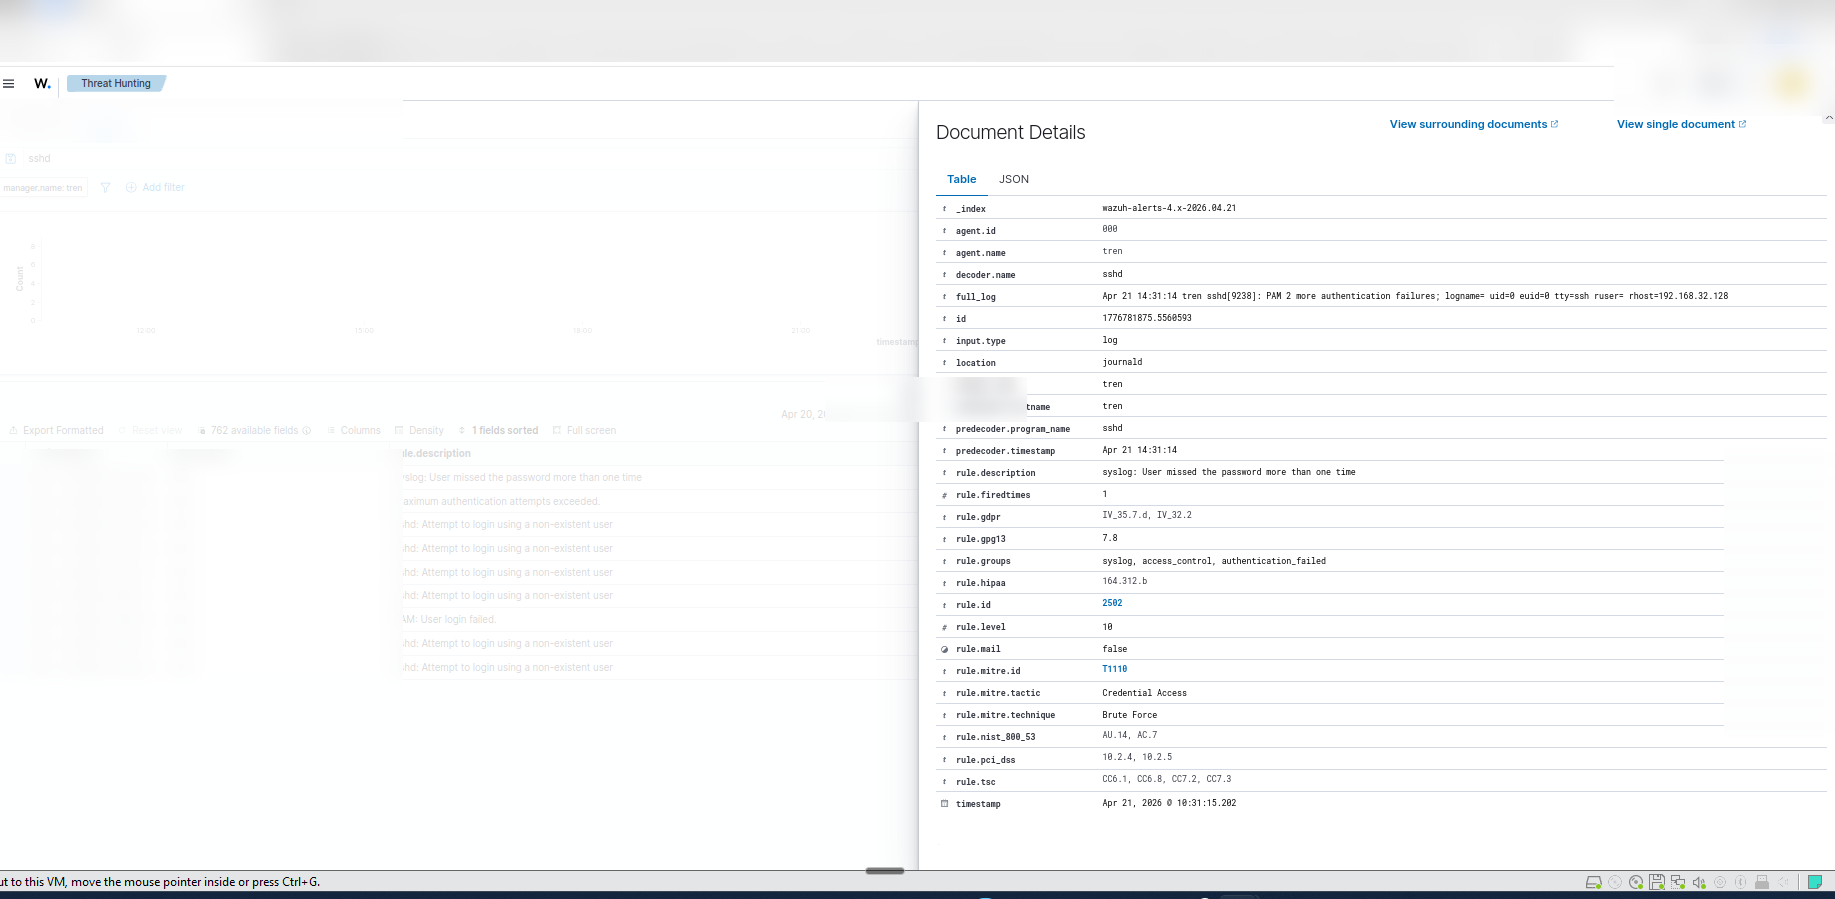
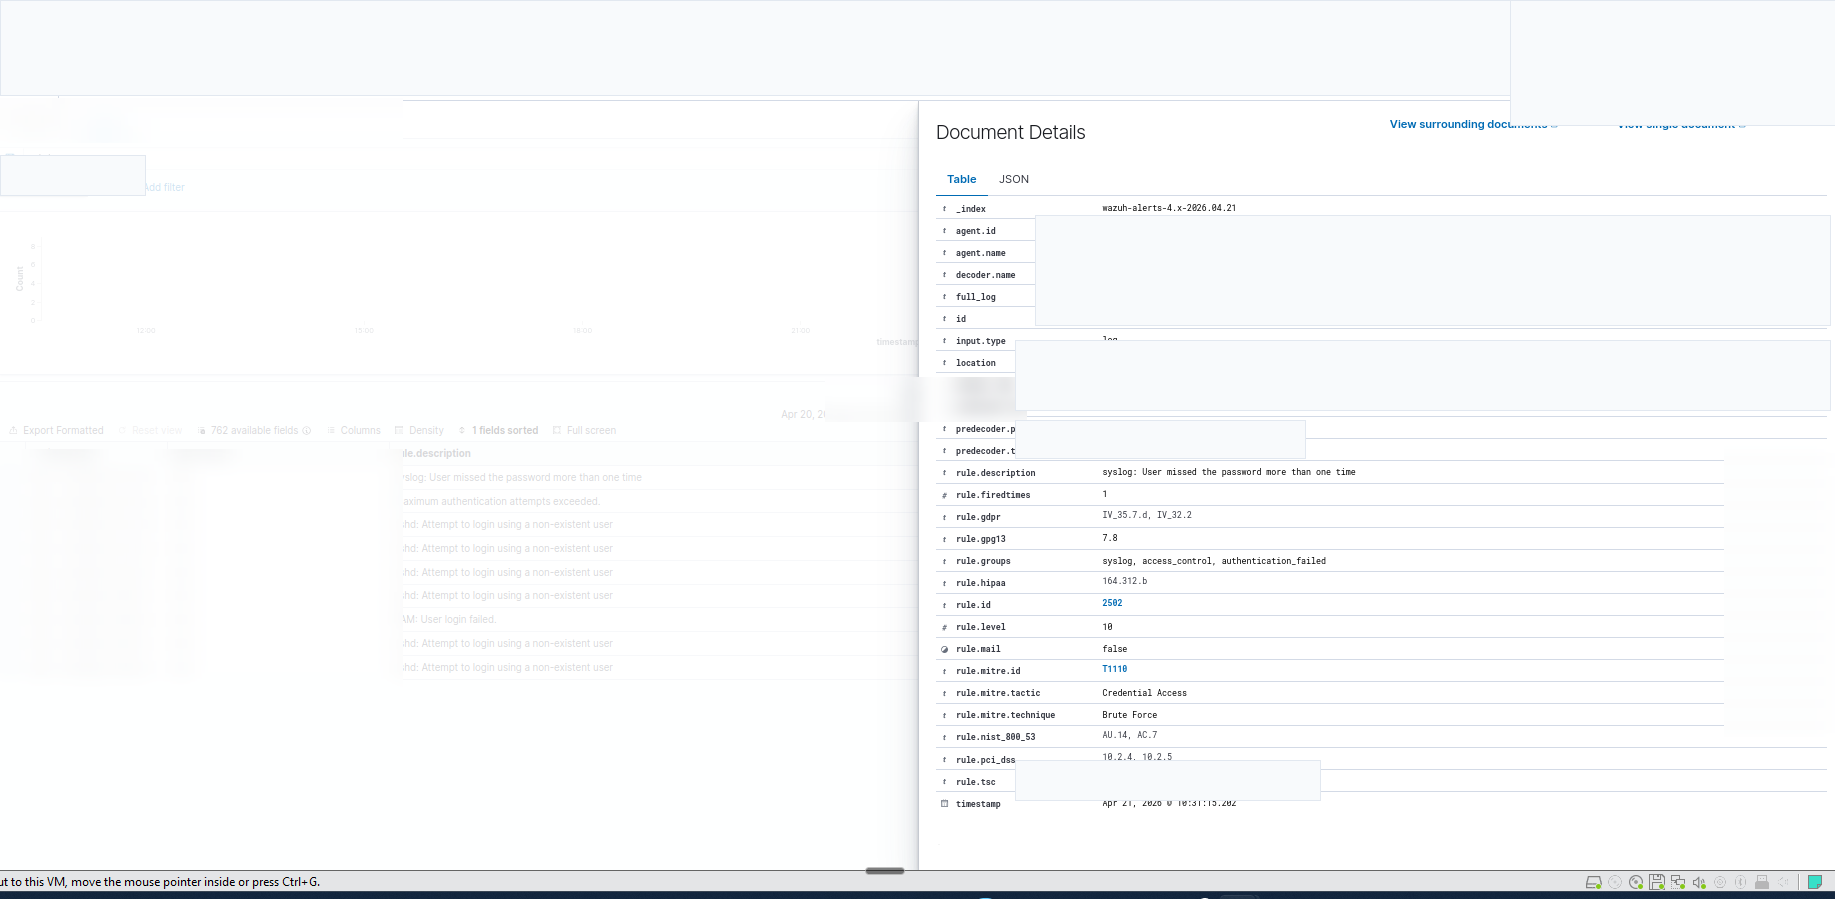
Polish SOC alert triage lab and redact public screenshots

diff --git a/blue-team-labs/soc-alert-triage-lab/docs/github-boundary-review.md b/blue-team-labs/soc-alert-triage-lab/docs/github-boundary-review.md
@@ -3,26 +3,30 @@
 ## Project
 
 - Project path: `blue-team-labs/soc-alert-triage-lab`
-- Review type: report-only GitHub boundary cleanup review
-- Review date: 2026-05-07
-- Scope inspected: `README.md`, `docs/`, `queries/`, `evidence/screenshots/`, `outputs/`, and `SOC_Triage_HANDOFF.md`
+- Review type: report-only GitHub boundary review
+- Review date: 2026-05-17
+- Current status: GitHub pin candidate after final human screenshot redaction review
+- Scope inspected: `README.md`, `docs/`, `queries/`, `evidence/screenshots-public/`, local-only raw screenshot boundary, generated outputs boundary, and `SOC_Triage_HANDOFF.md` ignore boundary
 
 ## GitHub-Safe Files
 
-These files are reasonable GitHub candidates after final content and privacy review:
+These files are reasonable GitHub candidates after final human review:
 
 - `README.md`
 - `docs/findings.md`
 - `docs/investigation.md`
+- `docs/github-boundary-review.md`
+- `docs/github-readiness-report.md`
+- `docs/screenshot-privacy-review.md`
 - `queries/investigation-queries.txt`
-- `evidence/screenshots/01-wazuh-alert-overview.png`
-- `evidence/screenshots/02-failed-login-raw-event.png`
-- `evidence/screenshots/03-repeated-failed-logins-filtered.png`
-- `evidence/screenshots/04-alert-fields-source-user-host-time.png`
-- `evidence/screenshots/04-related-events-timeline.png`
-- `evidence/screenshots/05-pam-login-session-details.png`
+- `evidence/screenshots-public/01-wazuh-alert-overview-public.png`
+- `evidence/screenshots-public/02-failed-login-raw-event-public.png`
+- `evidence/screenshots-public/03-repeated-failed-logins-filtered-public.png`
+- `evidence/screenshots-public/04-alert-fields-source-user-host-time-public.png`
+- `evidence/screenshots-public/04-related-events-timeline-public.png`
+- `evidence/screenshots-public/05-pam-login-session-details-public.png`
 
-Important qualifier: the screenshot files are structurally valid evidence, but they still need human privacy review before public GitHub use because visible fields include local host/user context, local Wazuh URLs, timestamps, private lab IP context, and command/session details.
+Important qualifier: the public screenshot copies are the only screenshot candidates for GitHub. They still need final human privacy review before hard-pinning because some local lab identifiers and event details may remain visible.
 
 ## Local-Only Files
 
@@ -30,6 +34,13 @@ These files and folders should stay local-only unless Tren explicitly approves a
 
 - `SOC_Triage_HANDOFF.md`
 - `outputs/`
+- `evidence/screenshots/`
+- `evidence/screenshots/01-wazuh-alert-overview.png`
+- `evidence/screenshots/02-failed-login-raw-event.png`
+- `evidence/screenshots/03-repeated-failed-logins-filtered.png`
+- `evidence/screenshots/04-alert-fields-source-user-host-time.png`
+- `evidence/screenshots/04-related-events-timeline.png`
+- `evidence/screenshots/05-pam-login-session-details.png`
 - `outputs/20260421_140818/evidence.json`
 - `outputs/20260421_140818/intake.json`
 - `outputs/20260421_225032/eli10.md`
@@ -68,6 +79,7 @@ Current `.gitignore` coverage should exclude:
 - `outputs/` by `.gitignore` rule `outputs/`
 - All nested files under `outputs/`, including generated markdown, JSON, QA reports, and LinkedIn drafts
 - `SOC_Triage_HANDOFF.md` by `.gitignore` rule `**/*HANDOFF*.md`
+- Raw screenshots under `evidence/screenshots/` by the project-specific raw screenshot ignore rule
 
 The LinkedIn drafts inside `outputs/` are currently ignored:
 
@@ -81,10 +93,11 @@ Accidental commit risk: normal `git add` should not add these ignored files, but
 ## Evidence Status
 
 - Evidence folder exists: yes
-- Screenshot folder exists: yes
-- Screenshot files exist: yes
+- Public screenshot folder exists: yes
+- Public screenshot files exist: yes
+- Raw screenshot folder exists and remains local-only: yes
 - Screenshot image headers are valid according to the evidence validator: yes
-- README references all six local screenshot files: yes
+- README references all six public screenshot files: yes
 - README image references are valid: yes
 - Missing README image references: none
 - Secret-like files found by validator: none
@@ -94,16 +107,12 @@ The validator status remains `NEEDS ORGANIZATION` because local-only artifacts a
 
 ## Screenshot Privacy Review Status
 
-Needs human privacy review before GitHub publishing.
+Final human privacy review is still required before GitHub publishing or hard-pinning.
 
 Observed review notes:
 
-- `01-wazuh-alert-overview.png` shows Wazuh dashboard context, local browser URL, manager/agent name `tren`, and authentication metrics.
-- `02-failed-login-raw-event.png` shows raw event details, local host/user context, rule IDs, timestamps, and private lab IP context.
-- `03-repeated-failed-logins-filtered.png` shows Wazuh event rows, timestamps, agent name `tren`, failed login rule details, and rule IDs.
-- `04-alert-fields-source-user-host-time.png` shows dashboard metrics and host/agent context.
-- `04-related-events-timeline.png` shows detailed event fields, local user/host context, UID values, sudo/pkexec activity, command path details, and timestamps.
-- `05-pam-login-session-details.png` shows PAM session details, root session context, local user/host context, rule and compliance fields, and timestamps.
+- Raw screenshots under `evidence/screenshots/` expose local lab context and should stay local-only.
+- Public screenshot copies under `evidence/screenshots-public/` are improved GitHub candidates, but they still need final human review for local identifiers, timestamps, event IDs, private lab IP context, and detailed event fields.
 
 No obvious secrets or credentials were identified by filename or validator output, but the screenshots include enough local lab identifiers to require a deliberate public-safety decision.
 
@@ -112,14 +121,14 @@ No obvious secrets or credentials were identified by filename or validator outpu
 - README is evidence-linked and references all six screenshots with relative paths.
 - README excludes `outputs/`, `SOC_Triage_HANDOFF.md`, and LinkedIn drafts from the evidence narrative.
 - README is more recruiter-readable than the earlier version.
-- README should not be considered GitHub-ready until screenshot privacy review and source-doc consistency cleanup are complete.
+- README should be considered ready for human GitHub review, with final screenshot redaction review still required before hard-pinning.
 
 Content consistency notes:
 
 - `docs/findings.md` describes a systemd service failure and related PAM/sudo context.
 - `SOC_Triage_HANDOFF.md` describes repeated failed SSH login attempts and should remain local-only because it conflicts with the current README/findings narrative.
-- `docs/investigation.md` still contains blank alert-summary fields and a stale screenshot list that does not match the current screenshot filenames.
-- `queries/investigation-queries.txt` exists but appears empty, so it should either be populated with real queries used or removed from public README references in a later cleanup pass.
+- `docs/investigation.md` now aligns with the current service-failure and authentication-context narrative.
+- `queries/investigation-queries.txt` contains Wazuh investigation terms used for this lab and should remain evidence-bound.
 
 ## `.gitignore` Coverage
 
@@ -132,20 +141,23 @@ Confirmed by `git check-ignore -v`:
 - `blue-team-labs/soc-alert-triage-lab/outputs/20260421_232119/linkedin.md` is ignored by `.gitignore:42:outputs/`
 - `blue-team-labs/soc-alert-triage-lab/outputs/20260421_225032/github-update.md` is ignored by `.gitignore:42:outputs/`
 - `blue-team-labs/soc-alert-triage-lab/SOC_Triage_HANDOFF.md` is ignored by `.gitignore:27:**/*HANDOFF*.md`
+- `blue-team-labs/soc-alert-triage-lab/evidence/screenshots/` is ignored by the project-specific raw screenshot ignore rule
 
 Tracked-file check:
 
-- `git ls-files -- blue-team-labs/soc-alert-triage-lab` returned only `blue-team-labs/soc-alert-triage-lab/README.md`.
-- No ignored local-only files are currently tracked.
+- Safe project docs, public screenshots, and query notes are tracked or safe candidates.
+- Ignored local-only raw screenshots, generated outputs, and HANDOFF files should remain out of staging.
 
-## Files That Need Privacy Review
+## Screenshot Files That Need Final Human Review
 
-- `evidence/screenshots/01-wazuh-alert-overview.png`
-- `evidence/screenshots/02-failed-login-raw-event.png`
-- `evidence/screenshots/03-repeated-failed-logins-filtered.png`
-- `evidence/screenshots/04-alert-fields-source-user-host-time.png`
-- `evidence/screenshots/04-related-events-timeline.png`
-- `evidence/screenshots/05-pam-login-session-details.png`
+- `evidence/screenshots-public/01-wazuh-alert-overview-public.png`
+- `evidence/screenshots-public/02-failed-login-raw-event-public.png`
+- `evidence/screenshots-public/03-repeated-failed-logins-filtered-public.png`
+- `evidence/screenshots-public/04-alert-fields-source-user-host-time-public.png`
+- `evidence/screenshots-public/04-related-events-timeline-public.png`
+- `evidence/screenshots-public/05-pam-login-session-details-public.png`
+
+Raw screenshots under `evidence/screenshots/` should remain local-only and are not GitHub candidates.
 
 ## Files That Should Stay Out Of README
 
@@ -163,21 +175,19 @@ Tracked-file check:
 
 ## Remaining Blockers
 
-- Screenshot privacy review is still required before GitHub/public use.
-- `docs/investigation.md` contains blank fields and stale screenshot names.
-- `queries/investigation-queries.txt` appears empty.
-- `SOC_Triage_HANDOFF.md` conflicts with the current README/findings narrative and must remain local-only.
+- No blocker prevents human GitHub review.
+- Final human screenshot redaction review is still required before hard-pinning this project.
+- `SOC_Triage_HANDOFF.md` remains local-only and should not be used as public source material.
 - `outputs/` contains generated and LinkedIn draft artifacts that should stay ignored and out of README.
-- Evidence validator still returns `NEEDS ORGANIZATION` due to local-only artifacts inside the project path.
+- Evidence validator may still return `NEEDS ORGANIZATION` because local-only artifacts exist inside the project path.
 
 ## Recommended Next Action
 
-Do not run GitHub readiness yet.
+Proceed to final human review for GitHub pinning.
 
-Recommended next safe cleanup pass:
+Recommended next safe steps:
 
-1. Update `docs/investigation.md` so it matches the final README, real screenshot filenames, and documented findings.
-2. Decide whether `queries/investigation-queries.txt` should be populated with real Wazuh queries used or removed from the README support links.
-3. Complete human screenshot privacy review for all six screenshots.
-4. Keep `outputs/` and `SOC_Triage_HANDOFF.md` local-only and ignored.
-5. Rerun the evidence validator after the docs cleanup.
+1. Complete final human privacy review of `evidence/screenshots-public/`.
+2. If needed, replace only the public screenshot copies, not the raw screenshots.
+3. Keep `outputs/`, `SOC_Triage_HANDOFF.md`, and `evidence/screenshots/` local-only and ignored.
+4. Use explicit file-path staging only after approval; do not use `git add .`.

diff --git a/blue-team-labs/soc-alert-triage-lab/README.md b/blue-team-labs/soc-alert-triage-lab/README.md
@@ -46,31 +46,47 @@ Investigate a Wazuh alert and determine whether the event required escalation, a
 
 **Reason:** The documented event indicates a local service failure rather than clear malicious activity. Related authentication and sudo activity was reviewed, but the available notes did not identify direct evidence of compromise. Continued monitoring is appropriate in case similar service failures, authentication events, or privilege-related activity repeat.
 
+## Why This Matters for SOC Work
+
+SOC analysts often review alerts that contain security-relevant context but do not automatically prove compromise. This lab shows the process of checking the alert details, surrounding authentication activity, and timeline context before making a measured triage decision.
+
 ## Evidence and Screenshots
 
-The screenshots below are stored under `evidence/screenshots-public/` and are referenced here so the public-safe lab evidence is reviewable from the README.
+The screenshots below are GitHub candidate copies stored under `evidence/screenshots-public/`. They are included to show the review flow while keeping the original raw screenshots local-only.
 
 ### Wazuh Alert Overview
 
+Dashboard view showing the authentication-related alert set that started the triage review.
+
 ![Wazuh alert overview](evidence/screenshots-public/01-wazuh-alert-overview-public.png)
 
-### Failed Login Raw Event
+### Authentication Failure Event Details
+
+Raw Wazuh event details for the failed-login context reviewed alongside the service-failure alert.
 
 ![Failed login raw event](evidence/screenshots-public/02-failed-login-raw-event-public.png)
 
-### Repeated Failed Logins Filtered
+### Failed Login Pattern Review
+
+Filtered Wazuh results used to check whether authentication failures repeated or appeared isolated.
 
 ![Repeated failed logins filtered](evidence/screenshots-public/03-repeated-failed-logins-filtered-public.png)
 
-### Alert Fields, Source, User, Host, and Time
+### Service-Failure Alert Fields
+
+Field-level view for the systemd service-failure alert, including host, source, and timestamp context.
 
 ![Alert fields source user host time](evidence/screenshots-public/04-alert-fields-source-user-host-time-public.png)
 
-### Related Events Timeline
+### Related Event Timeline
+
+Timeline view used to compare the service-failure event against nearby authentication, PAM, and sudo activity.
 
 ![Related events timeline](evidence/screenshots-public/04-related-events-timeline-public.png)
 
-### PAM Login Session Details
+### PAM Session Context
+
+PAM session details reviewed to determine whether local privilege-related activity looked expected or suspicious.
 
 ![PAM login session details](evidence/screenshots-public/05-pam-login-session-details-public.png)
 

diff --git a/blue-team-labs/soc-alert-triage-lab/docs/github-readiness-report.md b/blue-team-labs/soc-alert-triage-lab/docs/github-readiness-report.md
@@ -5,15 +5,15 @@
 - Project path: `blue-team-labs/soc-alert-triage-lab`
 - Review type: final report-only GitHub readiness review
 - Review date: 2026-05-07
-- Decision status: **READY FOR REVIEW**
+- Decision status: **PIN CANDIDATE AFTER FINAL SCREENSHOT REDACTION REVIEW**
 
 ## Executive Summary
 
-The SOC alert triage lab is ready for human GitHub review.
+The SOC alert triage lab is ready for human GitHub review and is a strong GitHub pin candidate after final screenshot redaction review.
 
 The README is evidence-linked, recruiter-readable, and points to public-safe screenshots under `evidence/screenshots-public/`. The public screenshot files exist and are not ignored. The original raw screenshots under `evidence/screenshots/` are ignored and should remain local-only. Generated outputs, LinkedIn drafts, and `SOC_Triage_HANDOFF.md` are also ignored/local-only.
 
-Human approval is still required before any `git add`, commit, or push.
+Human approval is still required before any `git add`, commit, push, or GitHub pinning decision.
 
 ## README Quality
 
@@ -53,7 +53,7 @@ All expected public screenshot files exist:
 Public screenshot ignore status:
 
 - `git check-ignore` returned exit code `1` for `evidence/screenshots-public/01-wazuh-alert-overview-public.png`, confirming it is not ignored.
-- Public screenshots remain GitHub candidate images.
+- Public screenshots remain GitHub candidate images pending final human redaction review.
 
 ## Raw Screenshots
 
@@ -189,15 +189,17 @@ Keep these out of GitHub staging:
 ## Remaining Blockers
 
 - None for report-only GitHub review.
+- Final screenshot redaction review is still required before hard-pinning this project.
 
 Remaining operational requirements:
 
 - Human approval is required before `git add`, commit, or push.
 - Use explicit file-path staging only; do not use `git add .`.
 - Keep ignored local-only artifacts out of GitHub.
+- Confirm `evidence/screenshots-public/` is acceptable for public pinning before promoting this project.
 
 ## Recommended Next Action
 
-Proceed to human GitHub review.
+Proceed to human GitHub review and final public screenshot review.
 
 If approved, prepare a file-specific staging list containing only the safe files listed above, plus `.gitignore` if the raw screenshot ignore rule is intended to be committed.

diff --git a/blue-team-labs/soc-alert-triage-lab/docs/screenshot-privacy-review.md b/blue-team-labs/soc-alert-triage-lab/docs/screenshot-privacy-review.md
@@ -32,6 +32,8 @@ No visible tokens, API keys, passwords, emails, or customer data were identified
 
 README now links to public-safe screenshot copies under `evidence/screenshots-public/`. Those public screenshot copies are the GitHub candidate images.
 
+Current publishing note: the public screenshot copies still need final human privacy review before this project is hard-pinned on GitHub. Do not publish the raw screenshots, and do not treat the public copies as fully approved until a human confirms that remaining local identifiers, timestamps, IP context, event IDs, and detailed log fields are acceptable or redacted.
+
 ## Screenshot Findings
 
 ### `01-wazuh-alert-overview.png`
@@ -152,15 +154,15 @@ README now links to public-safe screenshot copies under `evidence/screenshots-pu
 
 Do not publish the original screenshots from `evidence/screenshots/` to GitHub as-is.
 
-README now links to public-safe copies under `evidence/screenshots-public/`. Those public copies are the GitHub candidate images.
+README now links to public-safe copies under `evidence/screenshots-public/`. Those public copies are the GitHub candidate images, pending final human redaction review before hard-pinning.
 
 Recommended safe path:
 
 1. Keep original screenshots under `evidence/screenshots/` local-only.
-2. Use the public-safe copies under `evidence/screenshots-public/` as the GitHub candidate images.
+2. Use the public-safe copies under `evidence/screenshots-public/` as the GitHub candidate images only after final human privacy review.
 3. Re-run evidence validation after any approved screenshot replacement or README link update.
 
 ## Remaining Blockers
 
 - Original screenshots under `evidence/screenshots/` should stay local-only unless Tren explicitly approves publishing local lab identifiers.
-- README now links to `evidence/screenshots-public/`; those public screenshot copies are the GitHub candidate images.
+- README now links to `evidence/screenshots-public/`; those public screenshot copies are the GitHub candidate images after final human privacy review.
